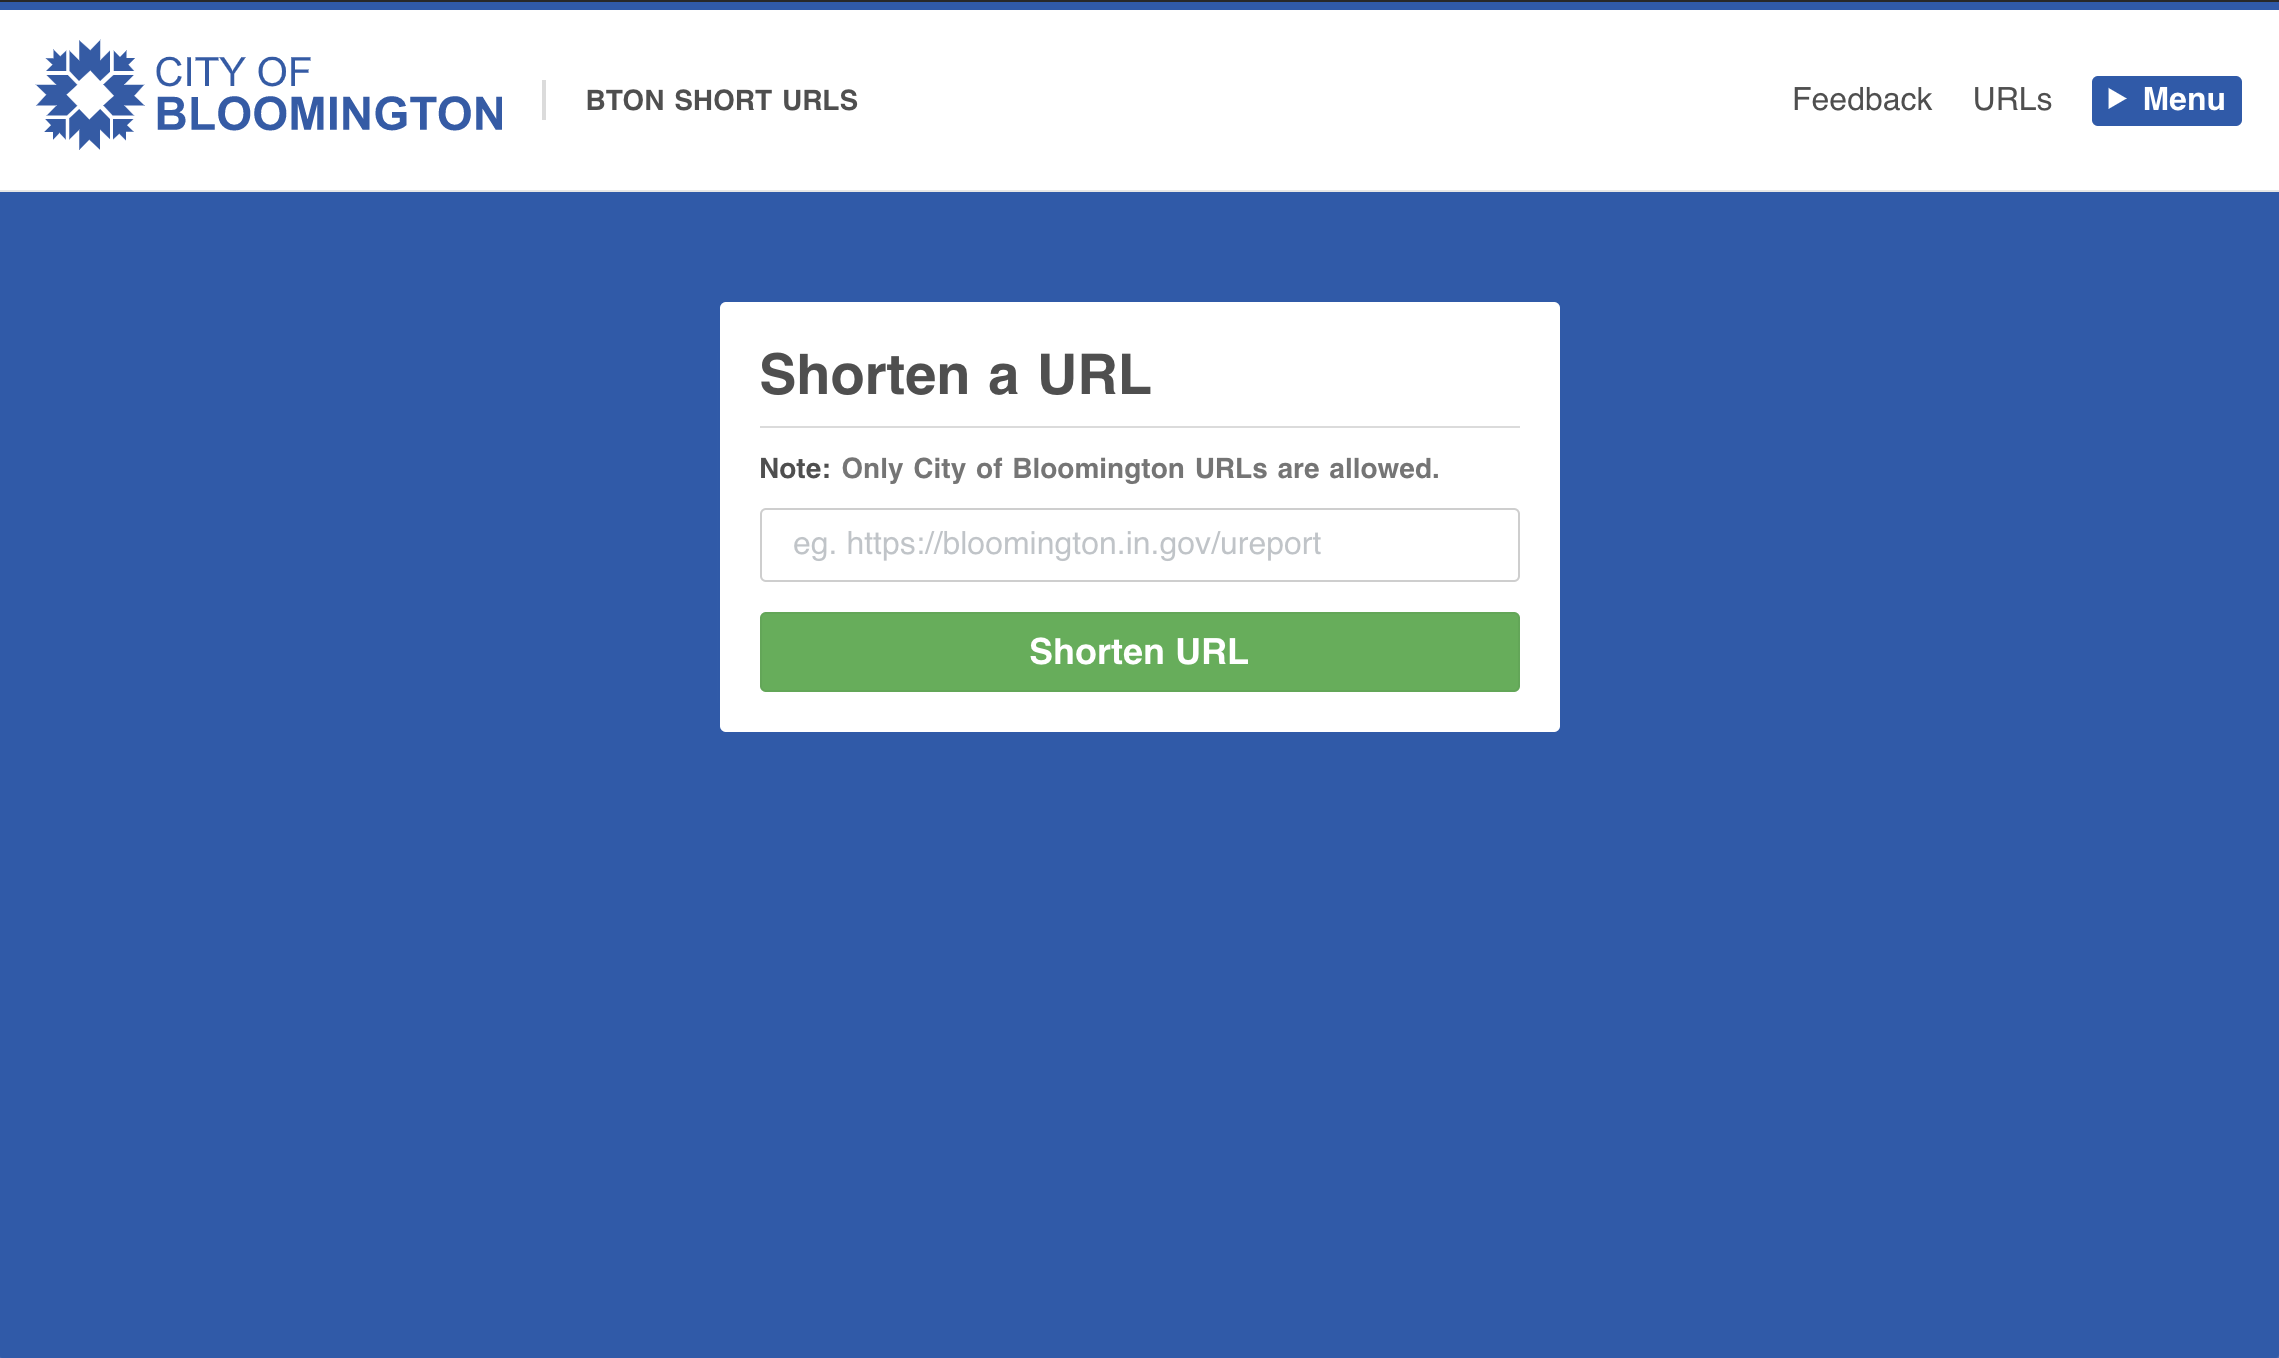
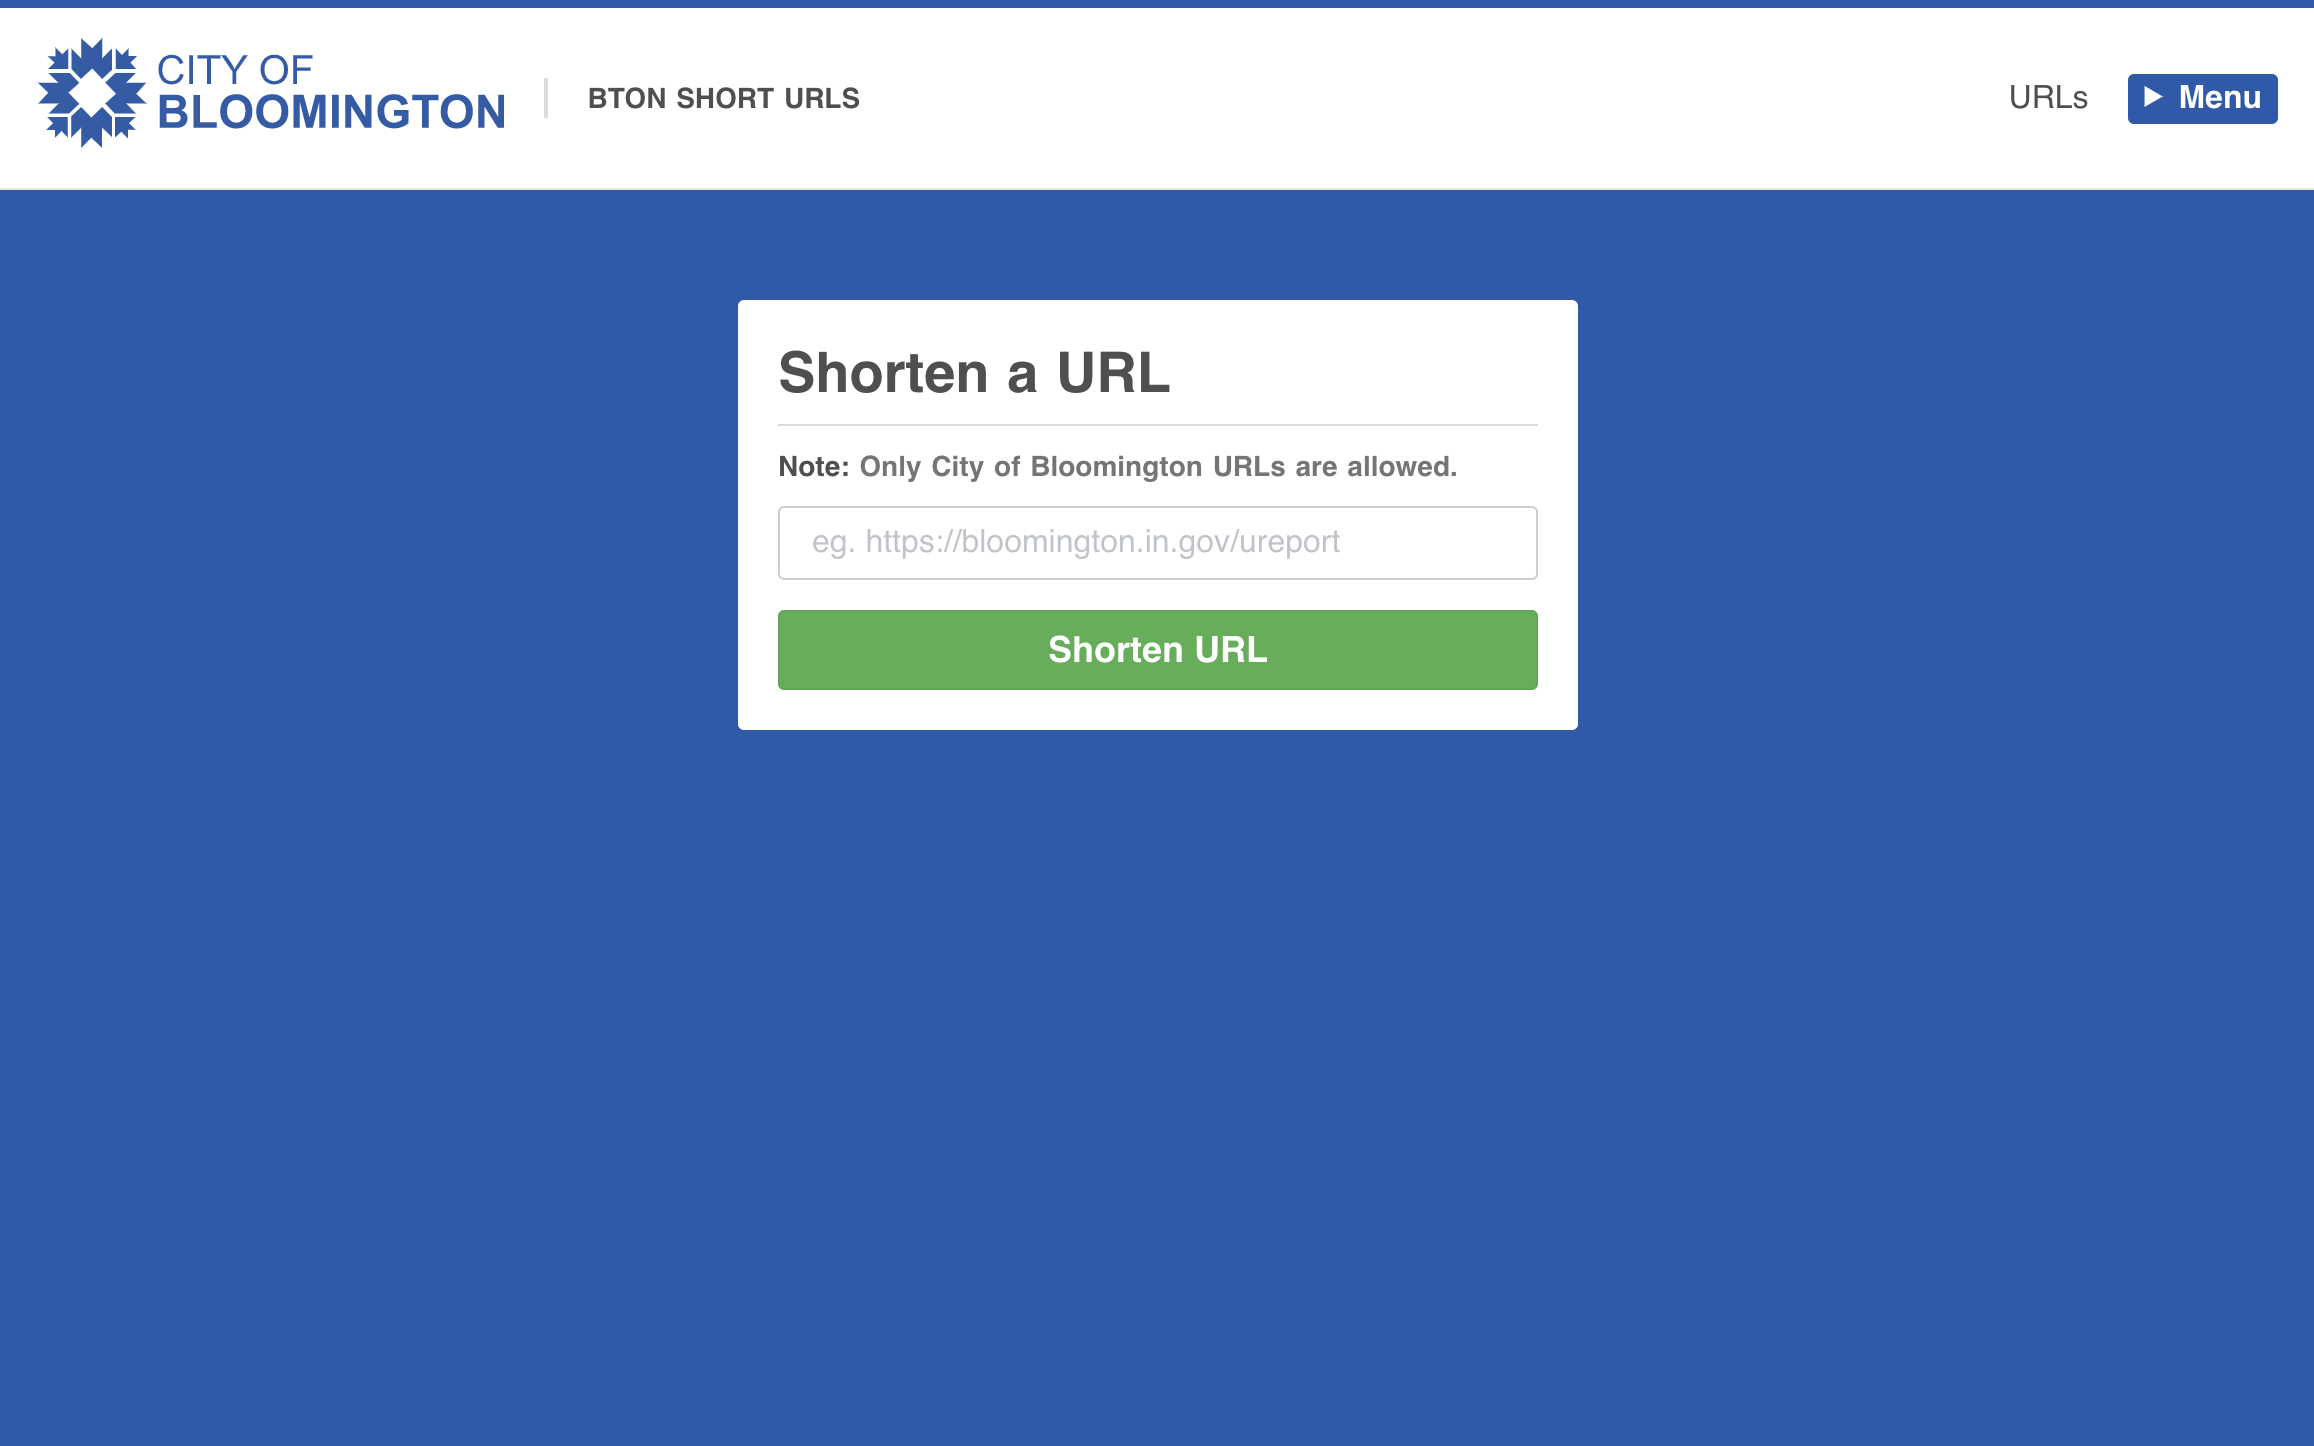
bury feedback & swap screenshot

Changed region(s): [[0.3115, 0.1856, 0.6854, 0.5567], [0.0, 0.0, 1.0, 0.1546]]

diff --git a/components/headerComp.vue b/components/headerComp.vue
@@ -11,9 +11,7 @@
         url:          `/`
       }"
       :navItems="[
-        { name:       'Feedback',
-          href:       `${cityWebsiteUrl}/ureport/miscellaneous/53`,
-          target:     '_blank' },
+        
         { name:       'URLs',
           href:       `/urls`}
       ]"
@@ -31,6 +29,9 @@
         text="Menu"
         navAlign="right"
         :navItems="[
+          { name:       'Feedback',
+          href:       `${cityWebsiteUrl}/ureport/miscellaneous/53`,
+          target:     '_blank' },
           {name: 'Settings',  href: `${client}/settings/`},
           {name: 'Logout',    href: `${api}/auth/logout/`},
         ]"

diff --git a/README.md b/README.md
@@ -2,6 +2,8 @@
 
 > Shorten City of Bloomington URLs using Bton.
 
+![Bton Short Urls](https://raw.githubusercontent.com/City-of-Bloomington/bton/5cdadffd972d486b642d9f01856c9b08803183ea/static/screenshot.png)
+
 ## Build Setup
 
 ```bash
